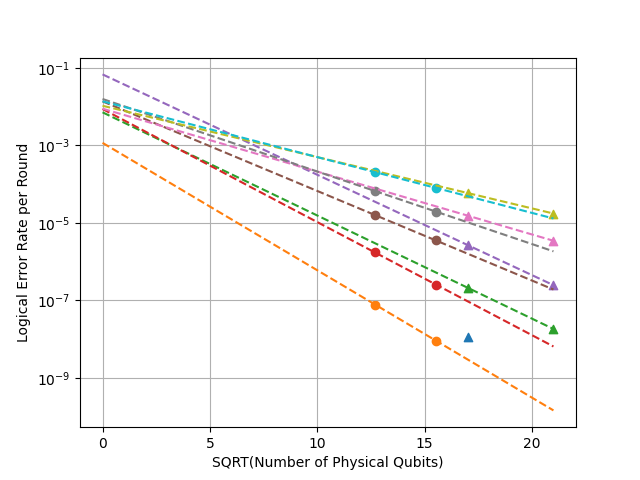
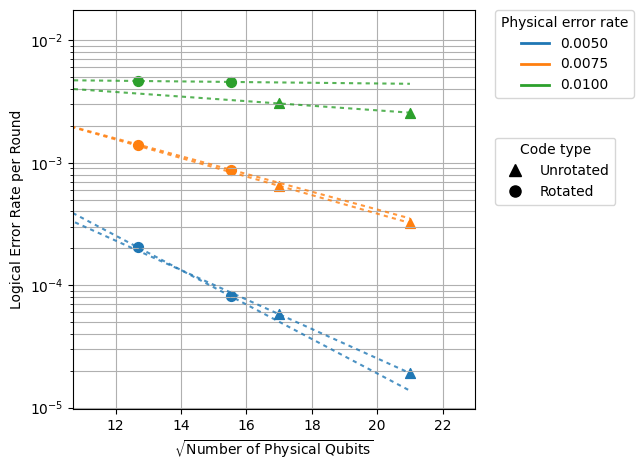
finalized script

diff --git a/examples/rot_vs_unrot_surface_code.py b/examples/rot_vs_unrot_surface_code.py
@@ -10,49 +10,75 @@
 # See the License for the specific language governing permissions and
 # limitations under the License.
 
+import json
 import numpy as np
 import scipy.stats
 import sinter
 import matplotlib.pyplot as plt
+import matplotlib
+from matplotlib.lines import Line2D
+
 from graphqec import RotatedSurfaceCode, UnrotatedSurfaceCode, ThresholdLAB
 
 
-def main(configs: dict[str, int | float], errors: np.ndarray) -> None:
+def main(
+    configs: dict[str, int | float],
+    errors: np.ndarray,
+    max_shots: int,
+    max_errors: int,
+    logic_check: str,
+) -> None:
     r"""
     Compare the performance of Rotated and Unrotated Surface Codes.
+
+    Args:
+        configs: A dictionary containing the configurations for the surface codes.
+        errors: An array of error rates to evaluate.
+        max_shots: The maximum number of shots to simulate.
+        max_errors: The maximum number of errors to consider.
+        logic_check: The logic check to perform.
     """
 
-    # Rotated Surface Code with Z logic
+    # Get stats for the Rotated Surface Code with Z logic
     rot_th_z = ThresholdLAB(
         configurations=configs,
         code=RotatedSurfaceCode,
         error_rates=errors,
         decoder="pymatching",
     )
+    rot_th_z.collect_stats(
+        max_shots=max_shots, max_errors=max_errors, logic_check=logic_check
+    )
 
-    rot_th_z.collect_stats(max_shots=10**7, max_errors=1000, logic_check="Z")
-
-    # Unrotated Surface code with Z logic
+    # Get stats for the Unrotated Surface code with Z logic
     unrot_th_z = ThresholdLAB(
         configurations=configs,
         code=UnrotatedSurfaceCode,
         error_rates=errors,
         decoder="pymatching",
     )
+    unrot_th_z.collect_stats(
+        max_shots=max_shots, max_errors=max_errors, logic_check=logic_check
+    )
 
-    unrot_th_z.collect_stats(max_shots=10**7, max_errors=1000, logic_check="Z")
-
+    # Find the range of values for the fit
     max_n = 0
+    min_n = float("inf")
     for sample in unrot_th_z.samples + rot_th_z.samples:
         max_n = max(max_n, np.sqrt(sample.json_metadata["n"]))
+        min_n = min(min_n, np.sqrt(sample.json_metadata["n"]))
 
+    # Fit each data and plot them on the same plot alongside the fit
+    data = []
+    cmap = matplotlib.colormaps["tab10"]
+    colors = [cmap(i) for i in range(errors.size)]
     fig, ax = plt.subplots(1, 1)
-    for error in errors:
+    for index, error in enumerate(errors):
         if error == 0:
             continue
 
         fit_unrot_z, x_unrot_z, y_unrot_z = fit(unrot_th_z.samples, error)
-        ax.scatter(x_unrot_z, y_unrot_z, marker="^")
+        ax.scatter(x_unrot_z, y_unrot_z, marker="^", color=colors[index], s=50)
         ax.plot(
             [0, max_n],
             [
@@ -61,10 +87,28 @@ def main(configs: dict[str, int | float], errors: np.ndarray) -> None:
             ],
             linestyle="--",
             label=error,
+            color=colors[index],
+            dashes=(2, 2),
+            alpha=0.8,
+        )
+        data.append(
+            {
+                "n": [int(n**2) for n in x_unrot_z],
+                "logical_error": [float(y) for y in y_unrot_z],
+                "type": "Unrotated",
+                "error_rate": float(error),
+                "fit": {
+                    "x": [0, max_n],
+                    "y": [
+                        np.exp(fit_unrot_z.intercept),
+                        np.exp(fit_unrot_z.intercept + fit_unrot_z.slope * max_n),
+                    ],
+                },
+            }
         )
 
         fit_rot_z, x_rot_z, y_rot_z = fit(rot_th_z.samples, error)
-        ax.scatter(x_rot_z, y_rot_z, marker="o")
+        ax.scatter(x_rot_z, y_rot_z, marker="o", color=colors[index], s=50)
         ax.plot(
             [0, max_n],
             [
@@ -73,20 +117,86 @@ def main(configs: dict[str, int | float], errors: np.ndarray) -> None:
             ],
             linestyle="--",
             label=error,
+            color=colors[index],
+            dashes=(2, 2),
+            alpha=0.8,
+        )
+        data.append(
+            {
+                "n": [int(n**2) for n in x_rot_z],
+                "logical_error": [float(y) for y in y_rot_z],
+                "type": "Rotated",
+                "error_rate": float(error),
+                "fit": {
+                    "x": [0, max_n],
+                    "y": [
+                        np.exp(fit_rot_z.intercept),
+                        np.exp(fit_rot_z.intercept + fit_rot_z.slope * max_n),
+                    ],
+                },
+            }
         )
 
+    # Build legend
+    line_handles = [
+        Line2D([0], [0], color=colors[index], lw=2, label=f"{error:.4f}")
+        for index, error in enumerate(errors)
+    ]
+
+    legend_lines = ax.legend(
+        handles=line_handles,
+        title="Physical error rate",
+        loc="upper left",
+        bbox_to_anchor=(1.05, 1.0),
+        borderaxespad=0.0,
+        handlelength=2,
+        frameon=True,
+    )
+    ax.add_artist(legend_lines)
+
+    marker_handles = [
+        Line2D(
+            [0],
+            [0],
+            color="black",
+            marker=m,
+            linestyle="None",
+            markersize=8,
+            label=label,
+        )
+        for m, label in zip(["^", "o"], ["Unrotated", "Rotated"])
+    ]
+
+    lengend_markers = ax.legend(
+        handles=marker_handles,
+        title="Code type",
+        loc="upper left",
+        bbox_to_anchor=(1.05, 0.68),
+        borderaxespad=0.0,
+        frameon=True,
+    )
+
     ax.semilogy()
+    ax.set_xlim(min_n - 2, max_n + 2)
     ax.set_title("")
-    ax.set_xlabel("SQRT(Number of Physical Qubits)")
+    ax.set_xlabel(r"$\sqrt{\mathrm{Number\ of\ Physical\ Qubits}}$")
     ax.set_ylabel("Logical Error Rate per Round")
-    ax.grid(which="major")
-    ax.grid(which="minor")
-    # ax.legend()
-    fig.set_dpi(120)
-    fig.savefig("rot_vs_unrot_surface_code.png")
+    ax.grid(which="major", zorder=0)
+    ax.grid(which="minor", zorder=0)
+    plt.tight_layout()
+    fig.savefig(
+        "rot_vs_unrot_surface_code.png",
+        bbox_inches="tight",
+        bbox_extra_artists=[legend_lines, lengend_markers],
+    )
+
+    with open("rot_vs_unrot_data.json", "w") as f:
+        json.dump(data, f, indent=4)
 
 
-def fit(collected_stats: list[sinter.TaskStats], error):
+def fit(
+    collected_stats: list[sinter.TaskStats], error: float
+) -> tuple[scipy.stats.linregress, list[float], list[float]]:
     r"""
     Compute a line fit for the given collected statistics.
     """
@@ -110,6 +220,15 @@ def fit(collected_stats: list[sinter.TaskStats], error):
 
 if __name__ == "__main__":
 
-    configs = [{"distance": d} for d in [7, 9, 11, 13, 17, 23]]
-    errors = np.linspace(0.001, 0.005, 5)
-    main(configs, errors)
+    max_shots = 100_000
+    max_errors = 100
+    logic_check = "Z"
+    configs = [{"distance": d} for d in [9, 11, 13, 17, 20, 23]]
+    errors = np.linspace(0.001, 0.01, 10)
+    main(
+        configs=configs,
+        errors=errors,
+        max_shots=max_shots,
+        max_errors=max_errors,
+        logic_check=logic_check,
+    )
